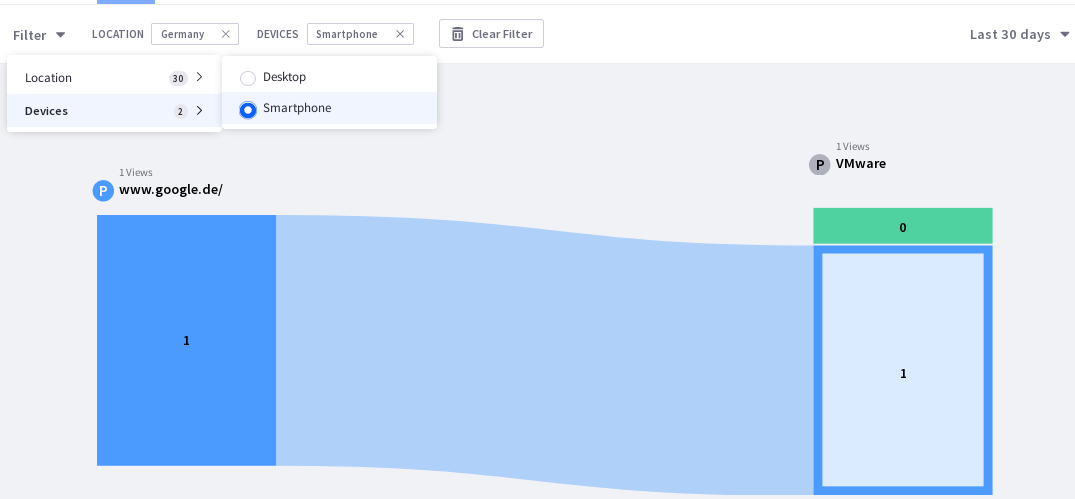
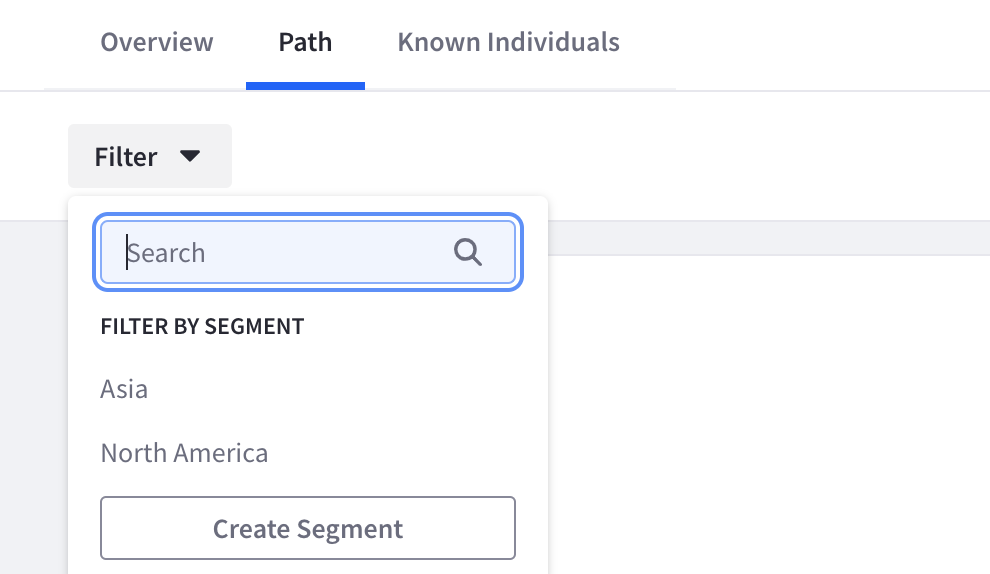
LRDOCS-12473 path exit pages

diff --git a/docs/analytics-cloud/latest/en/touchpoints/pages/paths.md b/docs/analytics-cloud/latest/en/touchpoints/pages/paths.md
@@ -3,28 +3,24 @@ uuid: d05594ae-9ab2-442c-a894-cb28372fe1da
 ---
 # Paths
 
-Path Analytics identify where visitors to your site most commonly originate. Knowing how your users are coming to your site's pages can empower you to better tailor your site's content to meeting your users' needs.
+Path analytics identifies how visitors are arriving to a site page and where they are exiting to. Knowing how your users are coming and going can empower you to better tailor your site's content to meet your users' needs.
 
 ## Viewing Page Path Analytics
 
-A Page’s Path Analytics are reported in the Path tab of a Page’s screen. The diagram reports the most common traffic sources for the page. The top three sources appear followed by all other sources that are aggregated with the label Others.
+A page’s path analytics are reported in the Path tab of a page’s screen. The diagram reports the most common traffic sources for the page.
 
-![The Path Diagram identifies traffic organizes and presents traffic sources to particular pages.](paths/images/01.png)
+![The path diagram reports the most common traffic sources for the page.](paths/images/01.png)
 
-The number value shown over each path indicates the total number of views that came from that traffic source. The different paths converge to a total number shown on the right side of the chart. 
+The left side of the chart displays the top three referrers that visitors are arriving from. All other referrers are aggregated under the other referrals path. Each path displays a total number of views that came from that traffic source. A total number of direct traffic views is also displayed.
 
-If a Page in one of your Liferay DXP sites is also a Path to the current Page, clicking the path URL brings you to its Overview screen. If it’s not a page that’s loaded from the data source, nothing happens.
+The different paths converge to a total number shown in the center of the chart.
 
-Note, the number displayed in the green box shows the number of views that came from direct traffic. 
+The right side of the chart displays the top three site pages users navigated to. The other site pages users navigated to are aggregated under the other pages path. Any users that ended their session from this page (i.e. navigated out of your site or became inactive for over thirty minutes) are shown in the drop-off path.
 
-## Location and Device Type
+## Filtering by Segments
 
-Path Analytics can be filtered by Location and Device Type. Knowing the Location and Device Type visitors most commonly use to access your site’s Pages helps you determine whether your site and its content are optimized properly.
+The path analysis data can be filtered by segments.
 
-By default, all views of the Page in the selected time period are represented in the Paths diagram. Filter the Paths being viewed by Location and Device Type. Click the Filter menu and select one Location whose Path diagram you want to see. The Path diagram is updated to represent the top Paths for only the selected Location. The same filtering can be used for Device Type, and the Device Type and Location filters can be combined. For example, view the Path diagram for views coming from smartphones in Germany.
+![The path analysis data can be filtered by segments](./paths/images/02.png)
 
-As you select filters, they’re made visible at the top center of the Path screen.
-
-![Path Diagrams can be filtered by location and device type.](paths/images/02.png)
-
-To remove a filter, click the x next to the filter name.
+Click _Filter_ and select the segment to view. See [creating segments](../../people/segments/creating-segments.md) to learn more about segments.
